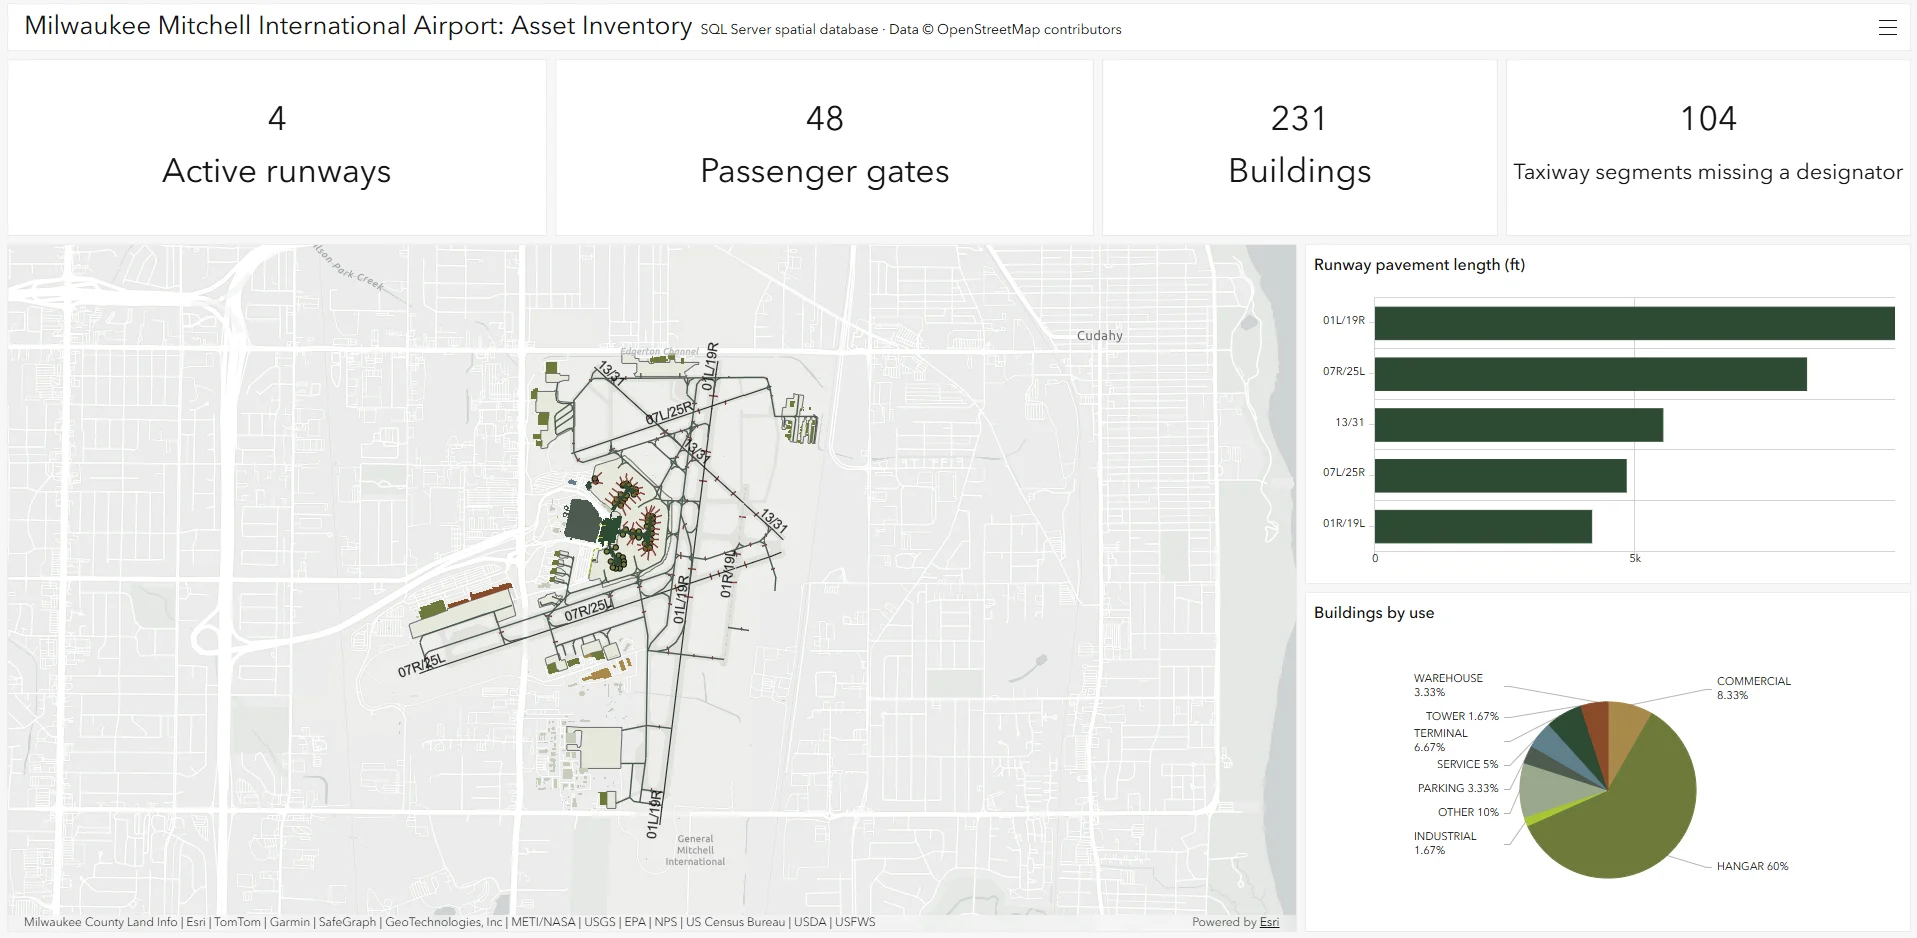
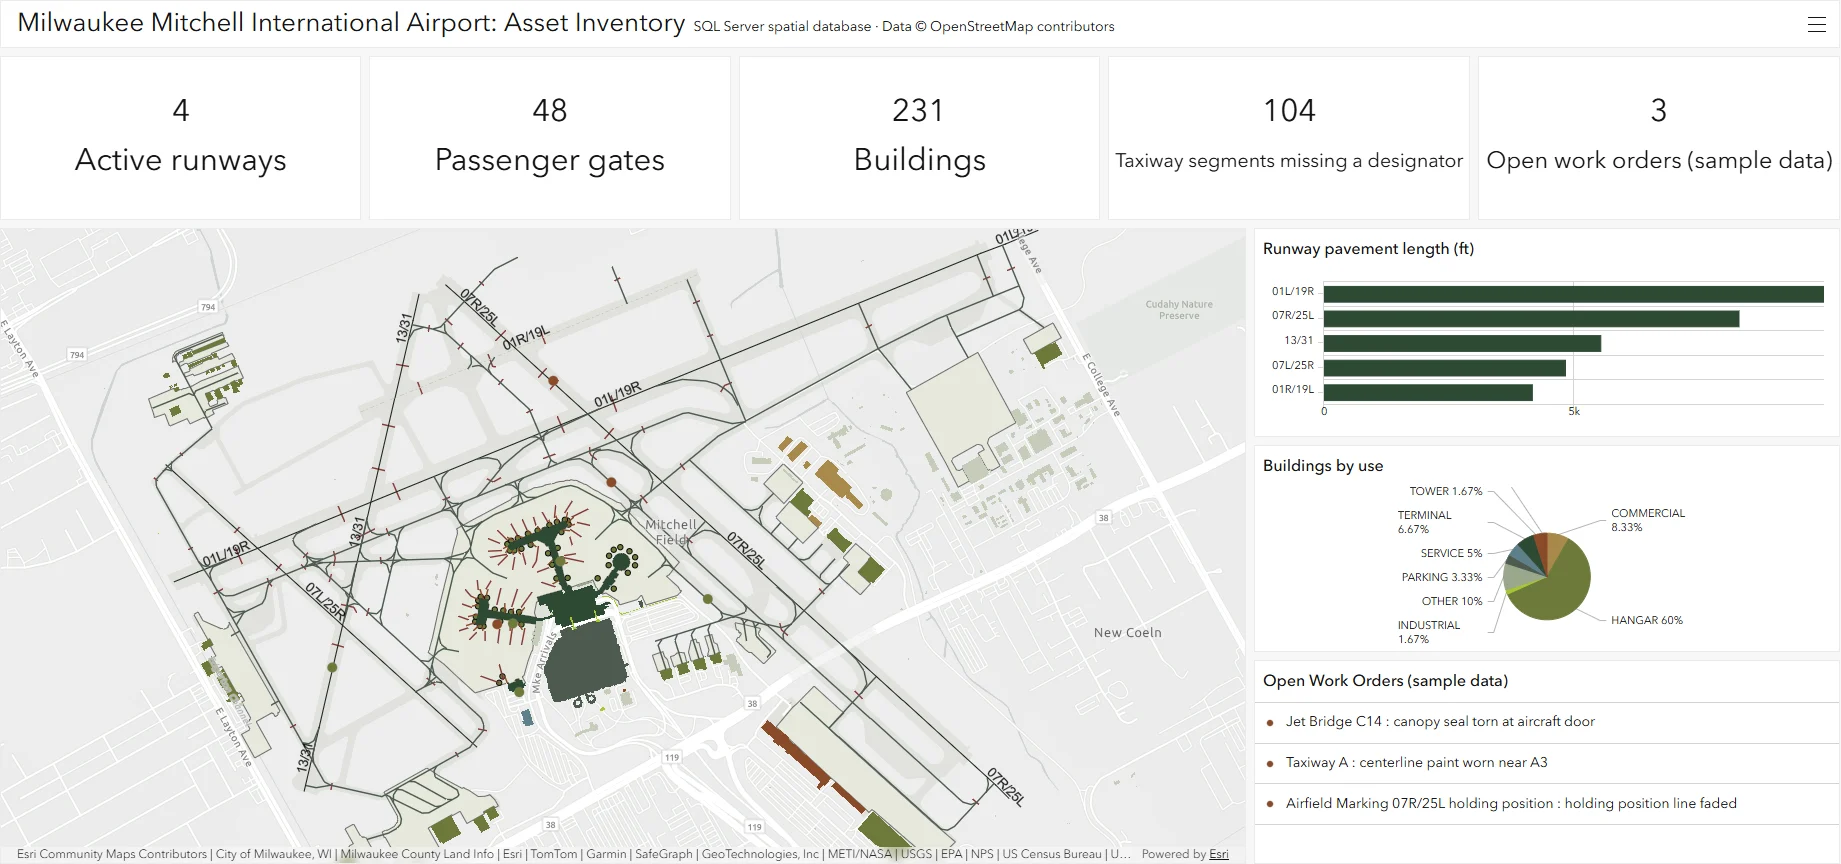
MKE Airport: add inspections and work orders section, new dashboard screenshot
Claude-Session: https://claude.ai/code/session_01WmAumG9rY9CHaHyMNJq2eM

diff --git a/mke-airport.html b/mke-airport.html
@@ -270,14 +270,14 @@ footer .wrap { display: flex; flex-wrap: wrap; gap: 1.5rem 3rem; justify-content
         <span class="label">Milwaukee County · 2026</span>
       </div>
       <h1>MKE Airport Asset Database</h1>
-      <p class="lede">A SQL Server spatial database of Milwaukee Mitchell International Airport's runways, taxiways, aprons, buildings and gates, built from public data, checked for quality, corrected against air traffic control, and published as a live dashboard.</p>
+      <p class="lede">A SQL Server spatial database of Milwaukee Mitchell International Airport's runways, taxiways, aprons, buildings and gates, built from public data, checked for quality, corrected against air traffic control, and published as a live dashboard with a field inspection workflow.</p>
     </div>
   </div>
 
   <div class="dash-wrap">
     <div class="wrap">
       <figure class="dash-fig">
-        <a href="https://krauskagis.maps.arcgis.com/apps/dashboards/f6d189d0fc294acbbfe2e873840d163b"><img src="media/mke-airport-dashboard.webp" alt="Dashboard titled Milwaukee Mitchell International Airport: Asset Inventory. Four indicators read 4 active runways, 48 passenger gates, 231 buildings and 104 taxiway segments missing a designator. Below are a map of the airfield, a bar chart of runway pavement lengths and a pie chart of buildings by use." width="1917" height="938"></a>
+        <a href="https://krauskagis.maps.arcgis.com/apps/dashboards/f6d189d0fc294acbbfe2e873840d163b"><img src="media/mke-airport-dashboard.webp" alt="Dashboard titled Milwaukee Mitchell International Airport: Asset Inventory. Five indicators read 4 active runways, 48 passenger gates, 231 buildings, 104 taxiway segments missing a designator and 3 open work orders. Below are a map of the airfield with inspection points, a bar chart of runway pavement lengths, a pie chart of buildings by use and a list of open work orders." width="1841" height="864"></a>
       </figure>
       <div class="btn-row">
         <a class="btn-live" href="https://krauskagis.maps.arcgis.com/apps/dashboards/f6d189d0fc294acbbfe2e873840d163b">Open the live dashboard →</a>
@@ -292,7 +292,7 @@ footer .wrap { display: flex; flex-wrap: wrap; gap: 1.5rem 3rem; justify-content
         <span class="label">Result</span>
         <div>
           <h2>594 airport features in a database that checks itself</h2>
-          <p>Seven feature tables, five lookup tables and three reporting views, loaded and verified on SQL Server 2022.</p>
+          <p>Seven feature tables, an inspection table, five lookup tables and four reporting views, loaded and verified on SQL Server 2022.</p>
         </div>
       </div>
       <div class="table-scroll">
@@ -363,6 +363,23 @@ COMMIT TRANSACTION;</pre>
 
   <section>
     <div class="wrap cs-body">
+      <span class="label">Inspections and work orders</span>
+      <div class="prose">
+        <p>Asset systems such as Cityworks tie inspections and repairs to features on the map. I built a small version of that loop, with sample data, to show how the pieces connect.</p>
+        <ol class="steps">
+          <li><span><strong>Field form.</strong> An ArcGIS Survey123 form records the asset, its condition, whether it needs repair, notes, a photo and a point on the map.</span></li>
+          <li><span><strong>Dashboard.</strong> Inspections appear on the map as they are submitted. Those marked "needs repair" are counted and listed as open work orders.</span></li>
+          <li><span><strong>Back to the database.</strong> A SQL script loads the survey export into the inspection table and matches each record to its asset: gates by number, runways and taxiways by designator, buildings by name. Where several segments share a designator, it takes the one nearest the inspector's point.</span></li>
+          <li><span><strong>Spatial matching.</strong> Jet bridges have no names, so the script finds the bridge nearest the named gate. A faded holding-position line is matched to the nearest marking of that type.</span></li>
+        </ol>
+        <p>All eight sample inspections matched an asset, and three became open work orders. Each survey record loads only once, so the script can be re-run after every export.</p>
+        <p class="label">Sample data: the conditions are invented, not real inspection results.</p>
+      </div>
+    </div>
+  </section>
+
+  <section>
+    <div class="wrap cs-body">
       <span class="label">What the checks found</span>
       <div class="prose">
         <ul>
@@ -383,7 +400,7 @@ COMMIT TRANSACTION;</pre>
         <ul>
           <li>The data is OpenStreetMap's, mapped by volunteers. It is not the airport's own record and should not be used for navigation or operations.</li>
           <li>This is a SQL Server spatial database read by ArcGIS Pro through a database connection. It is not an Esri enterprise geodatabase, which needs an ArcGIS Server license.</li>
-          <li>The inspection table is designed but empty. A field inspection form is the next step.</li>
+          <li>The inspections are sample data. I have not inspected the airfield, and the conditions shown are invented to demonstrate the workflow.</li>
         </ul>
       </div>
     </div>
@@ -394,7 +411,7 @@ COMMIT TRANSACTION;</pre>
       <span class="label">Software and methods</span>
       <div class="prose">
         <ul class="chips">
-          <li>SQL Server 2022</li><li>T-SQL</li><li>Spatial indexes</li><li>ArcGIS Pro 3.7</li><li>ArcGIS Online</li><li>ArcGIS Dashboards</li><li>Python</li><li>Overpass API</li>
+          <li>SQL Server 2022</li><li>T-SQL</li><li>Spatial indexes</li><li>ArcGIS Pro 3.7</li><li>ArcGIS Online</li><li>ArcGIS Dashboards</li><li>ArcGIS Survey123</li><li>Python</li><li>Overpass API</li>
         </ul>
         <p class="label" style="margin-top:1rem">Data © OpenStreetMap contributors, Open Database License</p>
       </div>
@@ -404,7 +421,7 @@ COMMIT TRANSACTION;</pre>
 
 <footer>
   <div class="wrap">
-    <p class="label built-with" style="flex-basis:100%;margin:0">Built with SQL Server 2022, ArcGIS Pro, ArcGIS Online and ArcGIS Dashboards · SQL and Python scripts written with Claude · <a href="ai-disclosure.html">How I use AI</a></p>
+    <p class="label built-with" style="flex-basis:100%;margin:0">Built with SQL Server 2022, ArcGIS Pro, ArcGIS Online, ArcGIS Dashboards and Survey123 · SQL and Python scripts written with Claude · <a href="ai-disclosure.html">How I use AI</a></p>
     <div class="scalebar" aria-hidden="true">
       <div class="bar"><i></i><i></i><i></i><i></i></div>
       <div class="ticks label"><span>0</span><span>5</span><span>10 mi</span></div>

diff --git a/index.html b/index.html
@@ -425,10 +425,10 @@ footer .wrap { display: flex; flex-wrap: wrap; gap: 1.5rem 3rem; justify-content
           </figure>
           <div class="collar"><span class="label">Spatial database · Dashboard</span><span class="status live">Live</span></div>
           <h3><a href="mke-airport.html">MKE Airport Asset Database</a></h3>
-          <p>A SQL Server spatial database of Milwaukee Mitchell airport's runways, taxiways, buildings and gates, with rules enforced in the database, automated checks, and a live dashboard. A runway's status was wrong in the source data, so I confirmed it with air traffic control and corrected it in SQL.</p>
+          <p>A SQL Server spatial database of Milwaukee Mitchell airport's runways, taxiways, buildings and gates, with rules enforced in the database, automated checks, a live dashboard and a field inspection workflow. A runway's status was wrong in the source data, so I confirmed it with air traffic control and corrected it in SQL.</p>
           <dl>
             <dt>Data</dt><dd>OpenStreetMap</dd>
-            <dt>Tools</dt><dd>SQL Server 2022, ArcGIS Pro, ArcGIS Online, ArcGIS Dashboards</dd>
+            <dt>Tools</dt><dd>SQL Server 2022, ArcGIS Pro, ArcGIS Online, Dashboards, Survey123</dd>
           </dl>
           <a class="case-link" href="mke-airport.html">Read the case study →</a>
         </article>
